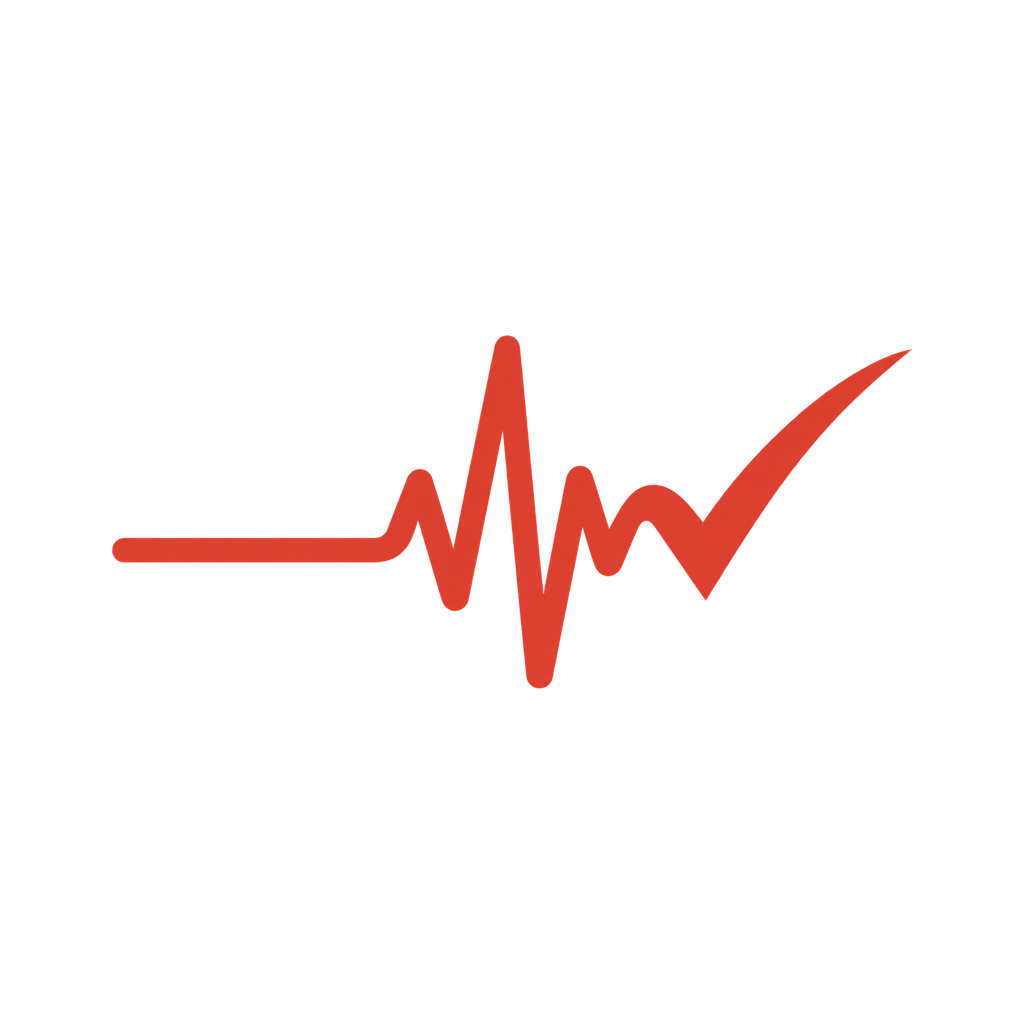
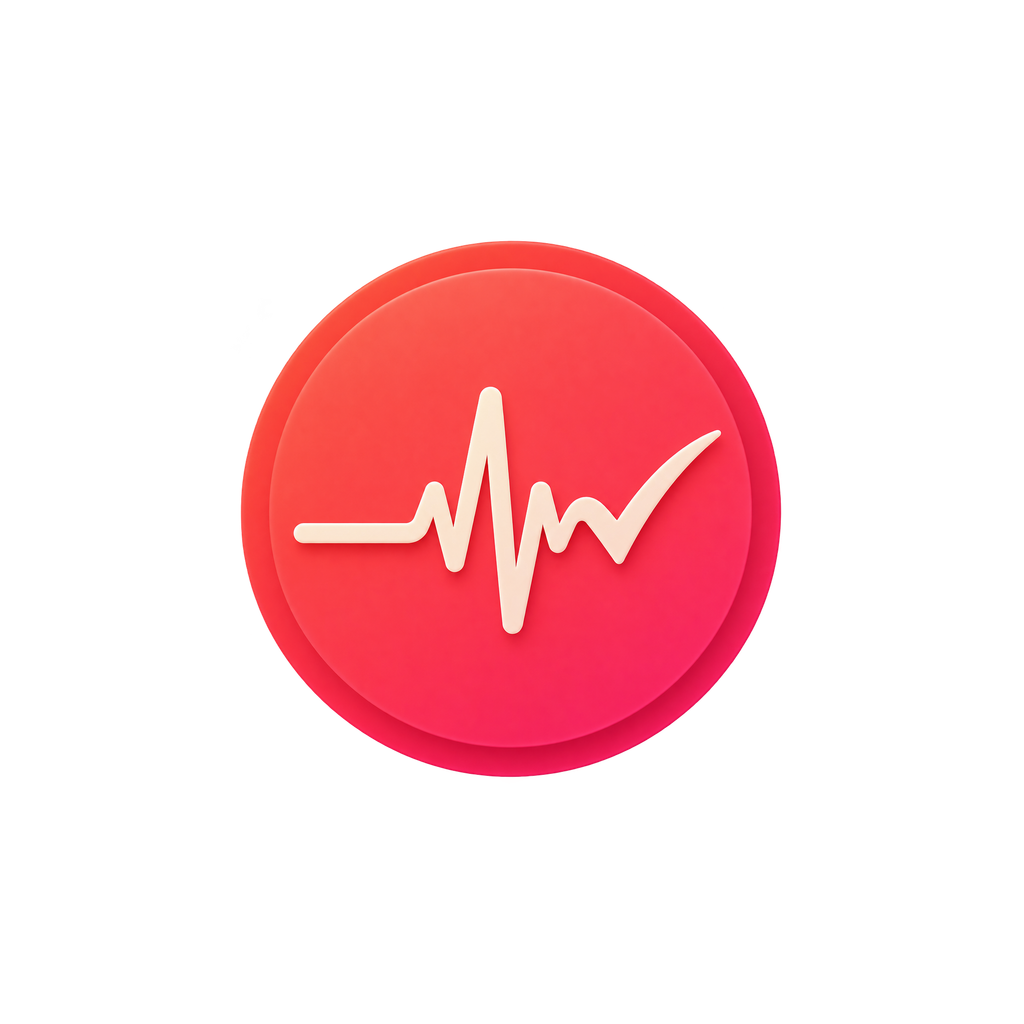
chore: refresh Pulse branding for v1.0.4

Changed region(s): [[0.0938, 0.2188, 0.875, 0.7812]]

diff --git a/apps/web/src/app/login/login-client.tsx b/apps/web/src/app/login/login-client.tsx
@@ -26,7 +26,7 @@ export function LoginClient({ registrationEnabled }: { registrationEnabled: bool
   return <main className="relative flex min-h-screen items-center justify-center bg-canvas p-5">
     <div className="absolute right-5 top-5"><ThemeToggle compact /></div>
     <div className="w-full max-w-[420px]">
-      <div className="mb-8 flex justify-center"><div className="flex items-center gap-3"><Image src="/pulse-waveform-logo.png" alt="Pulse" width={62} height={51} priority className="h-[51px] w-[62px] object-contain" /><div><div className="text-2xl font-extrabold tracking-tight text-ink">Pulse</div><div className="text-xs font-medium text-muted">Tasks, everywhere.</div></div></div></div>
+      <div className="mb-8 flex justify-center"><div className="flex items-center gap-3"><Image src="/pulse-logo.png" alt="Pulse" width={51} height={51} priority className="size-[51px] object-contain" /><div><div className="text-2xl font-extrabold tracking-tight text-ink">Pulse</div><div className="text-xs font-medium text-muted">Tasks, everywhere.</div></div></div></div>
       <section className="rounded-2xl border border-stroke bg-surface p-7 shadow-float sm:p-8">
         <h1 className="text-2xl font-bold tracking-tight text-ink">Welcome back</h1><p className="mt-1 text-sm text-muted">Sign in to your task workspace.</p>
         {error ? <div className="mt-5 rounded-lg border border-danger/25 bg-danger/10 px-3 py-2.5 text-sm font-medium text-danger">{error}</div> : null}

diff --git a/apps/web/src/app/register/register-client.tsx b/apps/web/src/app/register/register-client.tsx
@@ -24,7 +24,7 @@ export function RegisterClient() {
   return <main className="relative flex min-h-screen items-center justify-center bg-canvas p-5">
     <div className="absolute right-5 top-5"><ThemeToggle compact /></div>
     <div className="w-full max-w-[420px]">
-      <div className="mb-8 flex justify-center"><div className="flex items-center gap-3"><Image src="/pulse-waveform-logo.png" alt="Pulse" width={62} height={51} priority className="h-[51px] w-[62px] object-contain" /><div><div className="text-2xl font-extrabold tracking-tight text-ink">Pulse</div><div className="text-xs font-medium text-muted">Create your workspace</div></div></div></div>
+      <div className="mb-8 flex justify-center"><div className="flex items-center gap-3"><Image src="/pulse-logo.png" alt="Pulse" width={51} height={51} priority className="size-[51px] object-contain" /><div><div className="text-2xl font-extrabold tracking-tight text-ink">Pulse</div><div className="text-xs font-medium text-muted">Create your workspace</div></div></div></div>
       <section className="rounded-2xl border border-stroke bg-surface p-7 shadow-float sm:p-8">
         <h1 className="text-2xl font-bold tracking-tight text-ink">Create account</h1><p className="mt-1 text-sm text-muted">Your tasks stay isolated to your account.</p>
         {error ? <div className="mt-5 rounded-lg border border-danger/25 bg-danger/10 px-3 py-2.5 text-sm font-medium text-danger">{error}</div> : null}

diff --git a/apps/web/src/components/shell.tsx b/apps/web/src/components/shell.tsx
@@ -102,7 +102,7 @@ export function Shell({ children, defaultProjectId = null }: { children: React.R
   const sidebar = (
     <aside className="flex h-full w-[286px] flex-col border-r border-stroke bg-surface px-4 py-5 dark:border-stroke">
       <div className="flex items-center gap-3 px-2">
-        <Image src="/pulse-waveform-logo.png" alt="Pulse" width={52} height={43} priority className="h-11 w-[52px] object-contain" />
+        <Image src="/pulse-logo.png" alt="Pulse" width={44} height={44} priority className="size-11 object-contain" />
         <div className="min-w-0">
           <p className="text-lg font-extrabold tracking-tight text-ink">Pulse</p>
           <p className="text-xs font-medium text-muted">Tasks, everywhere.</p>
@@ -208,7 +208,7 @@ export function Shell({ children, defaultProjectId = null }: { children: React.R
               {mobileOpen ? <X className="size-5" /> : <Menu className="size-5" />}
             </button>
             <div className="flex items-center gap-2 md:hidden">
-              <Image src="/pulse-waveform-logo.png" alt="Pulse" width={34} height={28} priority className="h-7 w-[34px] object-contain" />
+              <Image src="/pulse-logo.png" alt="Pulse" width={28} height={28} priority className="size-7 object-contain" />
               <div>
               <p className="font-bold text-ink">Pulse</p>
               <p className="text-[11px] text-muted">Your task workspace</p>

diff --git a/apps/mobile/src/app/login.tsx b/apps/mobile/src/app/login.tsx
@@ -62,7 +62,7 @@ export default function LoginScreen() {
 
 const styles = StyleSheet.create({
   fill: { flex: 1 }, scroll: { flexGrow: 1, alignItems: "center", justifyContent: "center", padding: 20 },
-  card: { paddingVertical: 30 }, brandRow: { flexDirection: "row", alignItems: "center", gap: 10 }, logoImage: { width: 58, height: 47 }, logo: { fontSize: 38, fontWeight: "800", letterSpacing: -1.4 },
+  card: { paddingVertical: 30 }, brandRow: { flexDirection: "row", alignItems: "center", gap: 10 }, logoImage: { width: 48, height: 48 }, logo: { fontSize: 38, fontWeight: "800", letterSpacing: -1.4 },
   subtitle: { fontSize: 16, marginTop: 5 }, form: { marginTop: 34, gap: 13 },
   input: { fontFamily: AppFont, height: 52, borderRadius: 12, borderWidth: StyleSheet.hairlineWidth, paddingHorizontal: 16, fontSize: 16 },
   error: { fontSize: 14, lineHeight: 19 }, switch: { alignSelf: "center", marginTop: 24, padding: 8 },

diff --git a/apps/mobile/src/components/responsive-shell.tsx b/apps/mobile/src/components/responsive-shell.tsx
@@ -60,7 +60,7 @@ const styles = StyleSheet.create({
   compactRoot: { flex: 1 },
   content: { flex: 1, minWidth: 0 },
   sidebar: { width: 224, borderRightWidth: StyleSheet.hairlineWidth, paddingHorizontal: 15, paddingTop: 20 },
-  brandRow: { flexDirection: "row", alignItems: "center", gap: 8, marginHorizontal: 8, marginBottom: 26 }, brandLogo: { width: 48, height: 40 }, brand: { fontSize: 25, fontFamily: AppFontBold, fontWeight: "normal", letterSpacing: -0.8 },
+  brandRow: { flexDirection: "row", alignItems: "center", gap: 8, marginHorizontal: 8, marginBottom: 26 }, brandLogo: { width: 40, height: 40 }, brand: { fontSize: 25, fontFamily: AppFontBold, fontWeight: "normal", letterSpacing: -0.8 },
   sideNav: { gap: 3 },
   sideItem: { height: 46, borderRadius: 10, flexDirection: "row", alignItems: "center", paddingHorizontal: 13, gap: 12 },
   sideLabel: { fontSize: 15 },

diff --git a/apps/mobile/src/app/server.tsx b/apps/mobile/src/app/server.tsx
@@ -77,7 +77,7 @@ const styles = StyleSheet.create({
   scroll: { flexGrow: 1, alignItems: "center", justifyContent: "center", padding: 20 },
   card: { paddingVertical: 30 },
   brandRow: { flexDirection: "row", alignItems: "center", gap: 10 },
-  logoImage: { width: 58, height: 47 },
+  logoImage: { width: 48, height: 48 },
   logo: { fontSize: 38, fontWeight: "800", letterSpacing: -1.4 },
   heading: { fontSize: 24, fontWeight: "700", marginTop: 32 },
   subtitle: { fontSize: 15, lineHeight: 21, marginTop: 7 },

diff --git a/apps/web/src/app/layout.tsx b/apps/web/src/app/layout.tsx
@@ -6,7 +6,7 @@ import { ThemeScript } from "@/components/theme-script";
 export const metadata: Metadata = {
   title: "Pulse",
   description: "Your tasks, everywhere.",
-  icons: { icon: "/pulse-waveform-logo.png", apple: "/pulse-waveform-logo.png" },
+  icons: { icon: "/pulse-logo.png", apple: "/pulse-app-icon.png" },
 };
 
 export default function RootLayout({ children }: LayoutProps<"/">) {
